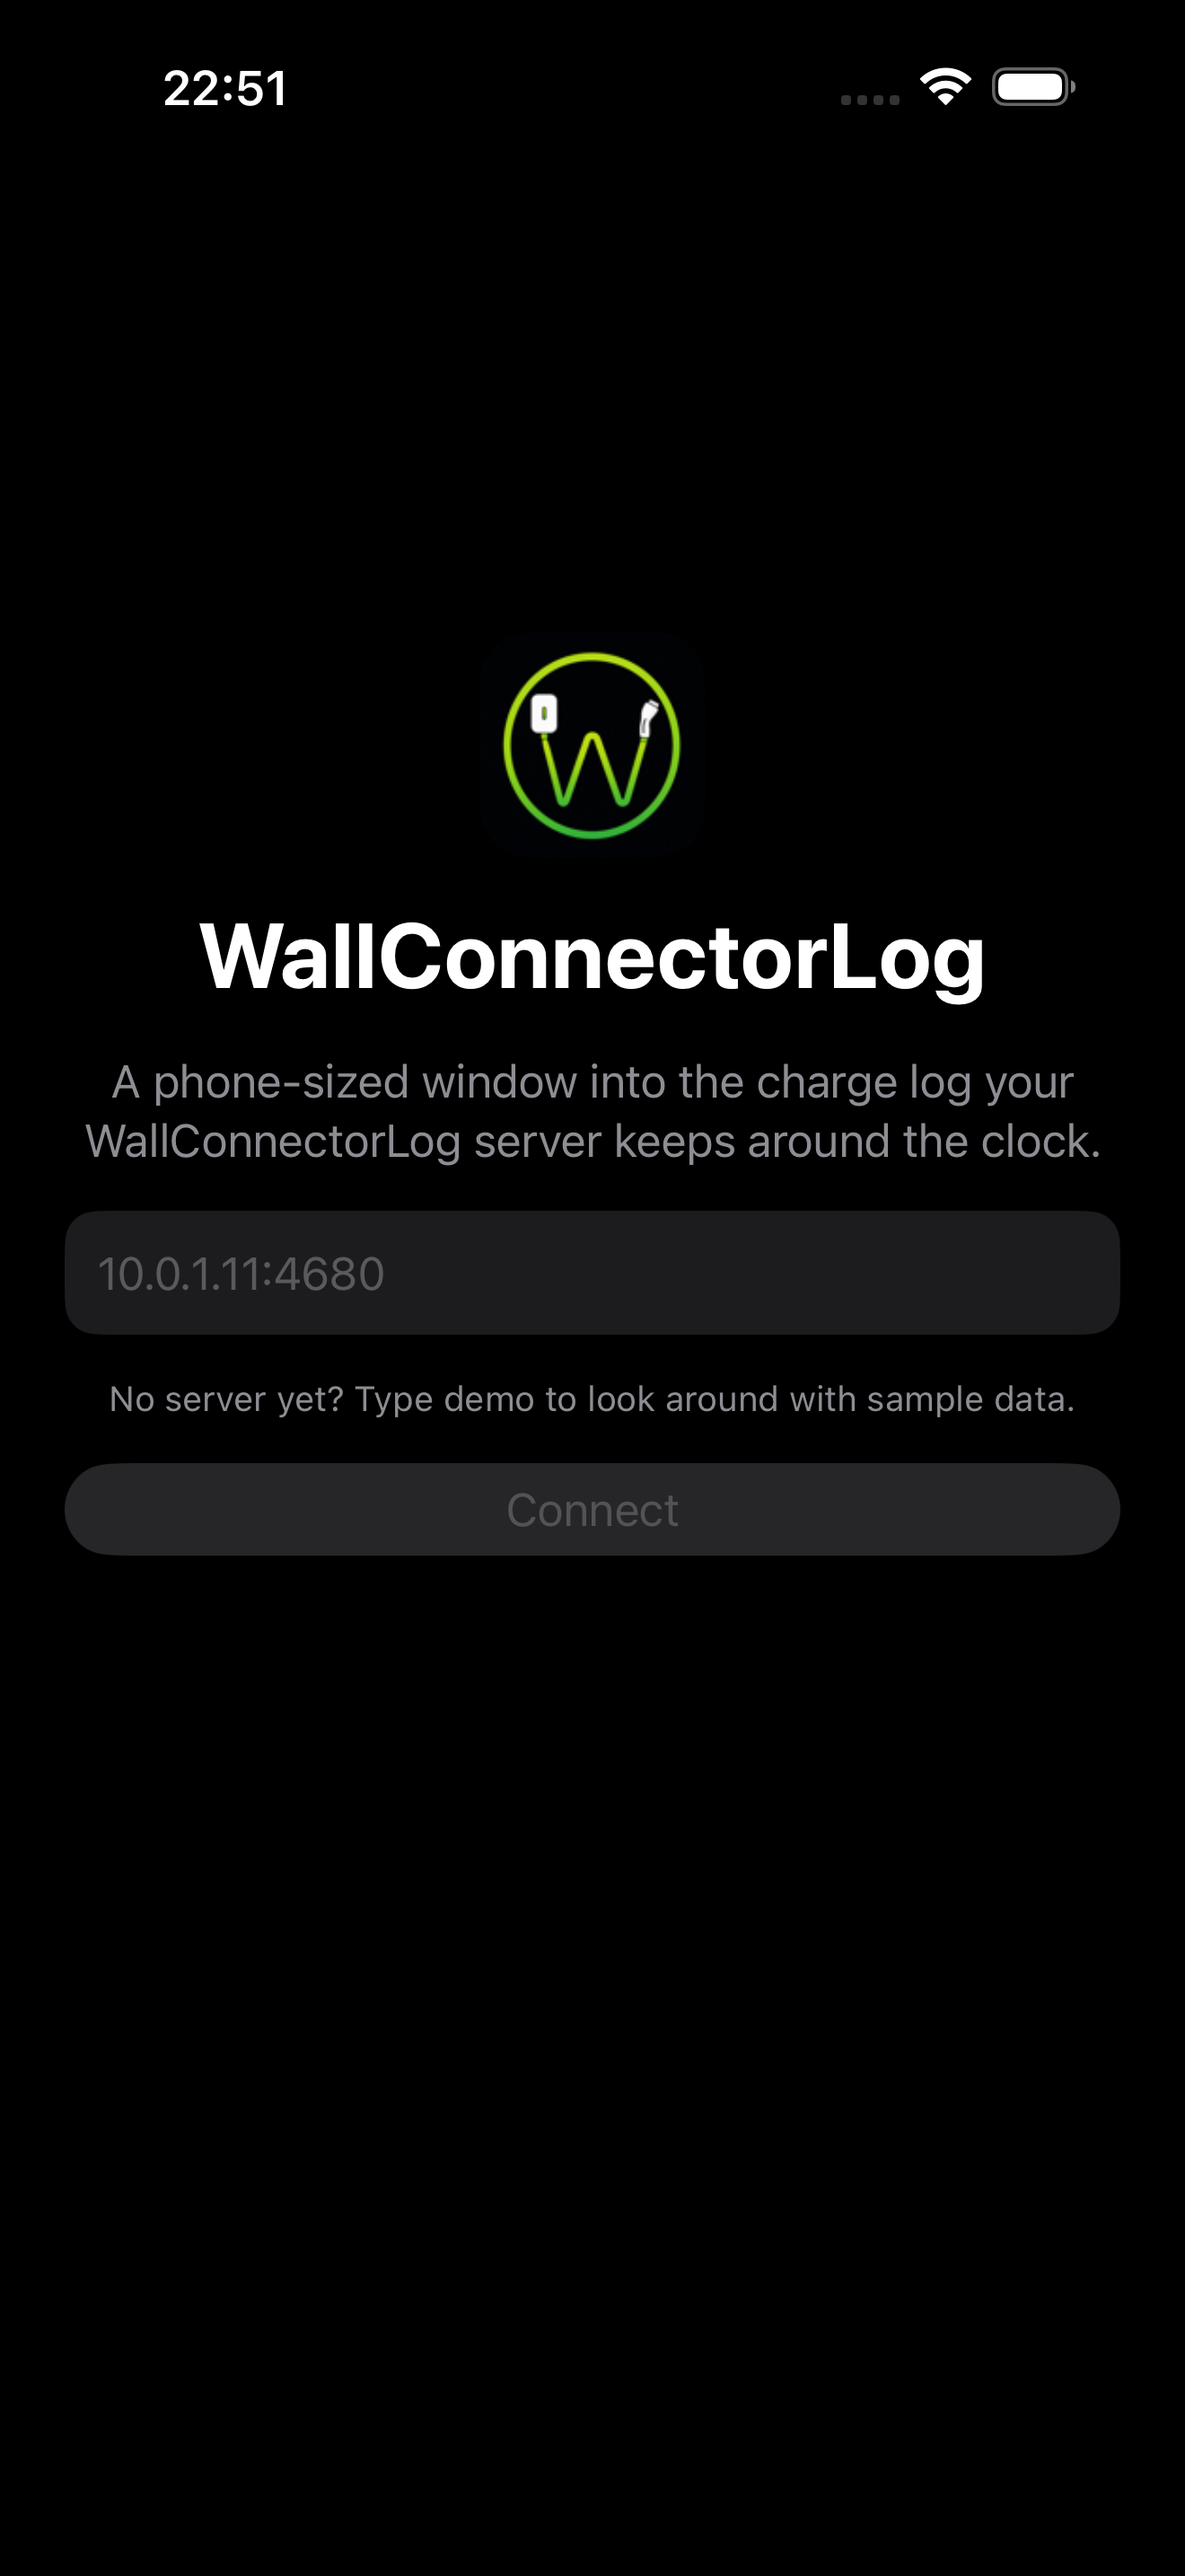
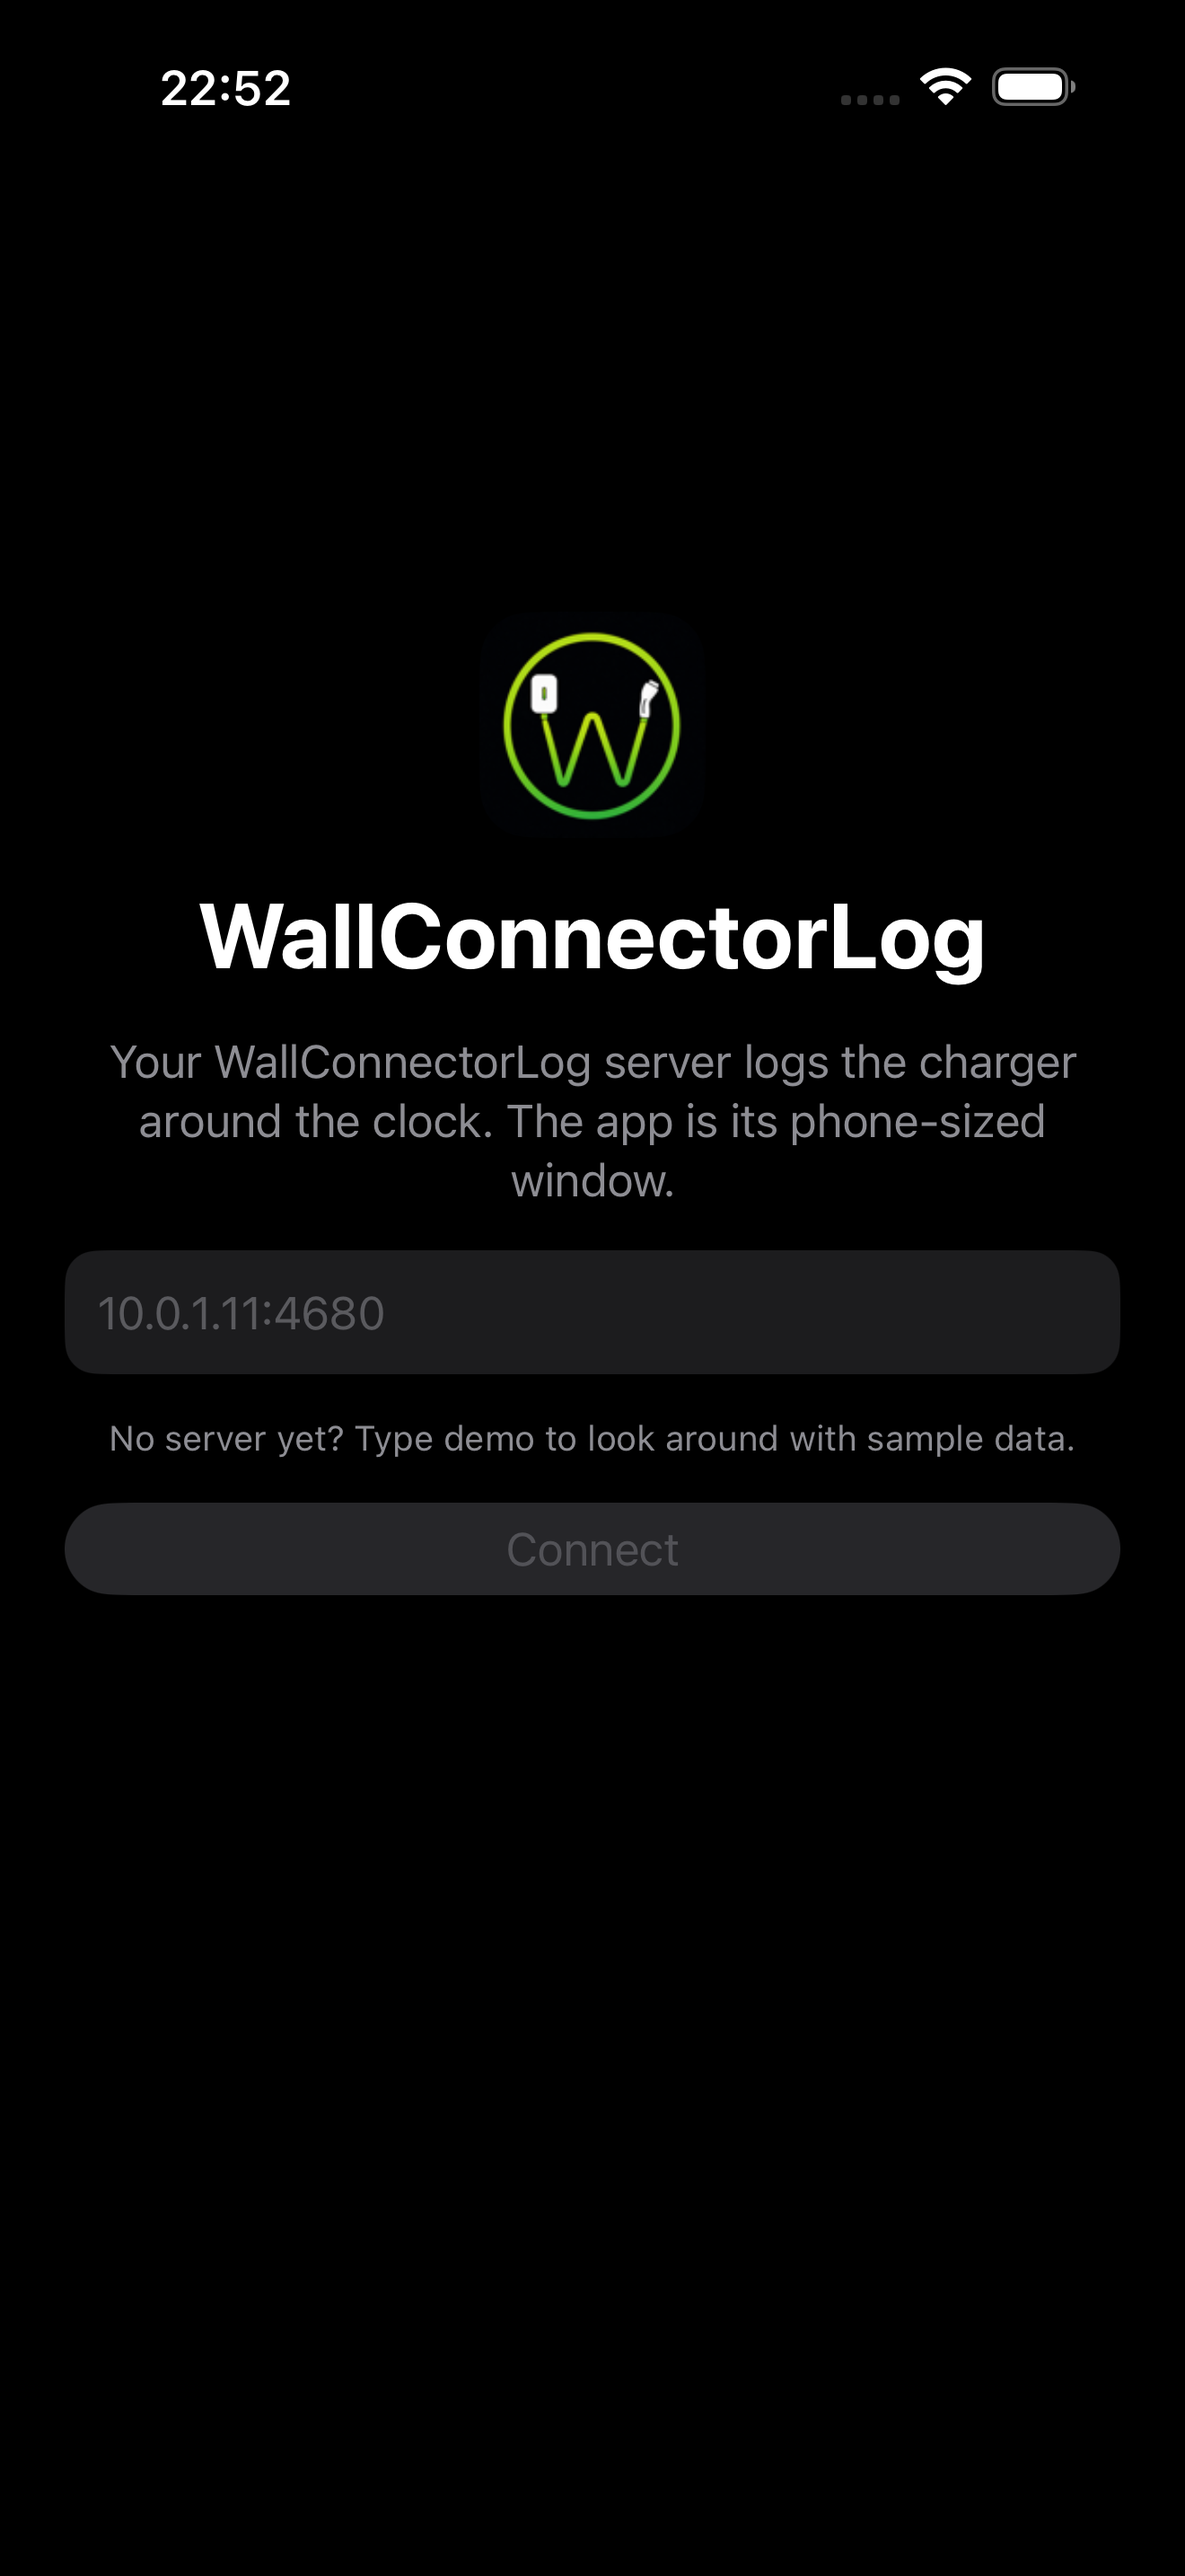
Untangle the start screen tagline

Changed region(s): [[0.0311, 0.2483, 0.9629, 0.6206], [0.1864, 0.031, 0.2485, 0.0621]]

diff --git a/Sources/RootView.swift b/Sources/RootView.swift
@@ -35,7 +35,7 @@ struct OnboardingView: View {
             AppIconImage()
             Text("WallConnectorLog")
                 .font(.largeTitle.bold())
-            Text("A phone-sized window into the charge log your WallConnectorLog server keeps around the clock.")
+            Text("Your WallConnectorLog server logs the charger around the clock. The app is its phone-sized window.")
                 .multilineTextAlignment(.center)
                 .foregroundStyle(.secondary)
             TextField("Server address", text: $draft, prompt: Text(verbatim: "10.0.1.11:4680"))
